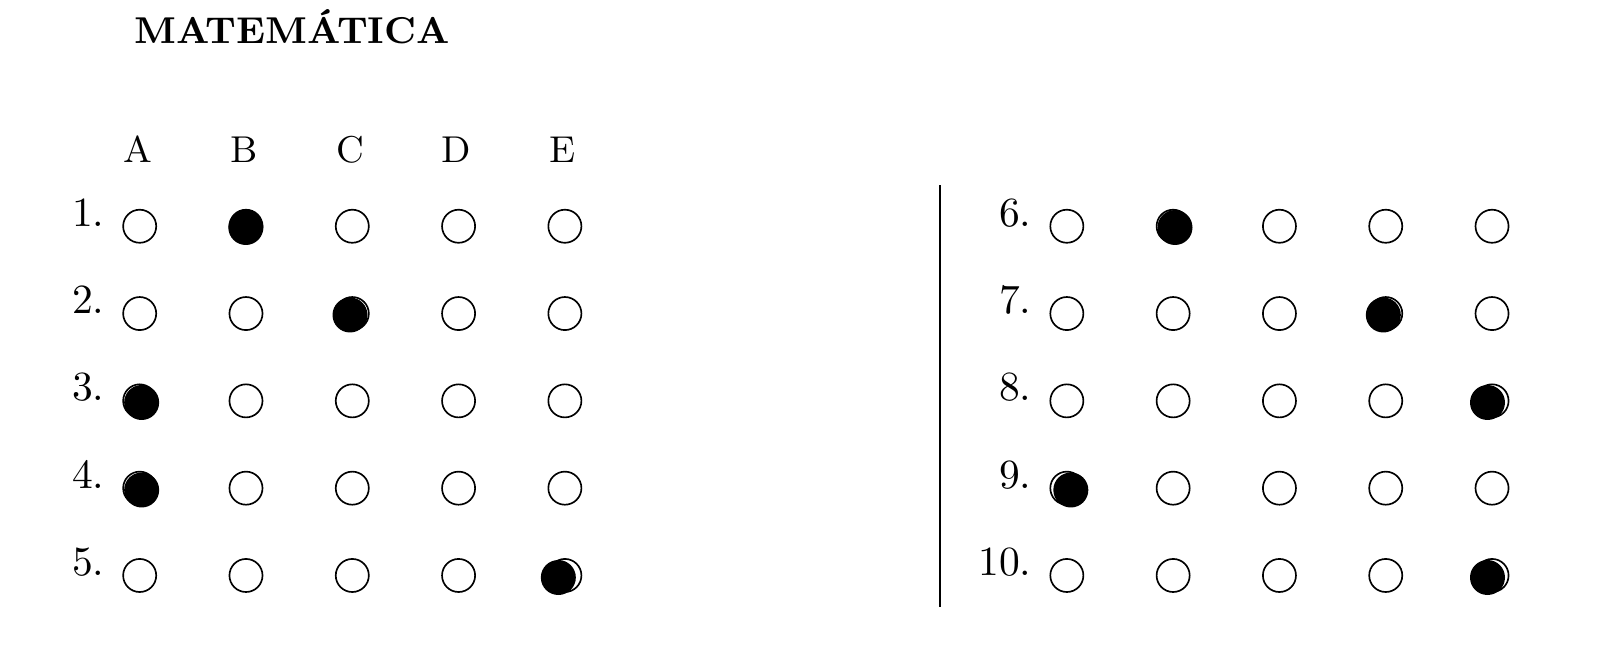
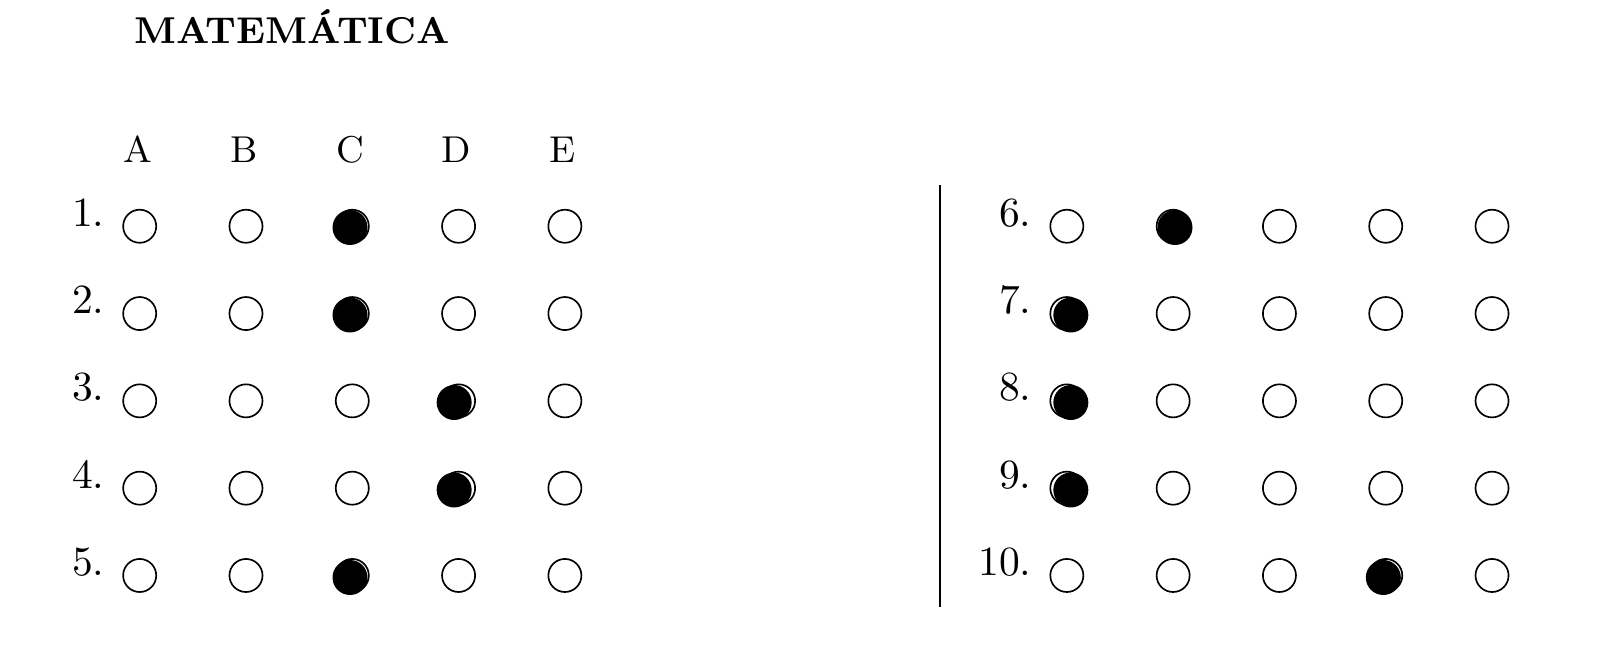
get info from gabarito with image - WIP

diff --git a/AI/gabarito_answered/readpngtoarray.py b/AI/gabarito_answered/readpngtoarray.py
@@ -38,7 +38,7 @@ for cnt in contours:
     circularity = 4 * np.pi * (area / (perimeter * perimeter))
     if 0.7 < circularity <= 1.2:  # 1.0 is perfect circle
         (x, y), radius = cv2.minEnclosingCircle(cnt)
-        if radius > 10:  # ignore tiny circles
+        if radius > 12:  # ignore tiny circles
             circles.append((int(x), int(y), int(radius)))
 
 # -----------------------------
